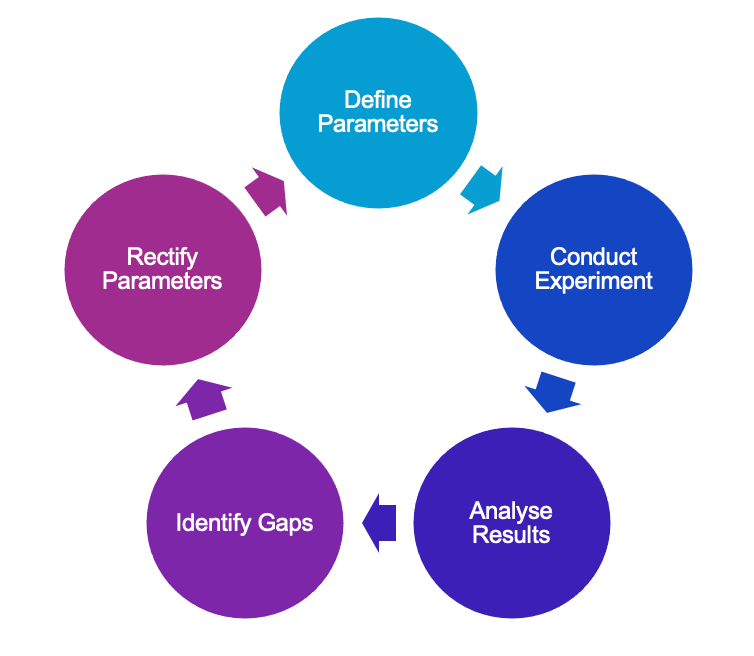
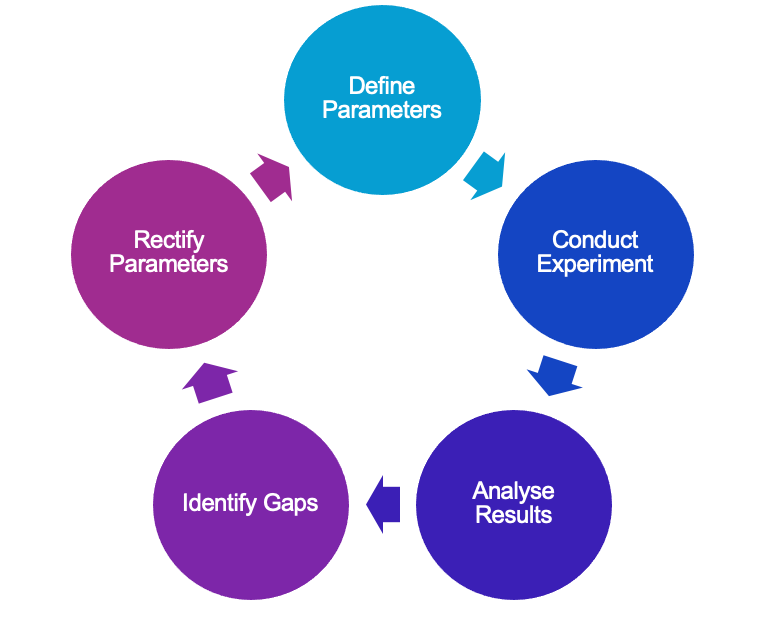
edit size of pilot study cycle

diff --git a/index.html b/index.html
@@ -425,8 +425,12 @@
         conditions are established — where pollutant concentrations fall within the sensor’s detection range while remaining
         sufficiently high to allow discernible differences in VOC removal efficiency.
         </p>
-          <image-component tag="image" source="assets/4-Pilot Study/Pilot study cycle.png"
-            subtitle="Figure 9: Pilot Study Experimental Framework."></image-component>
+        <div style="display:flex; justify-content:center;">
+          <image-component tag="image"
+          source="assets/4-Pilot Study/Pilot study cycle.png"
+          subtitle="Figure 9: Pilot Study Experimental Framework."
+          style="max-width:650px;">
+        </image-component>
         </p>  
       </div>
 
